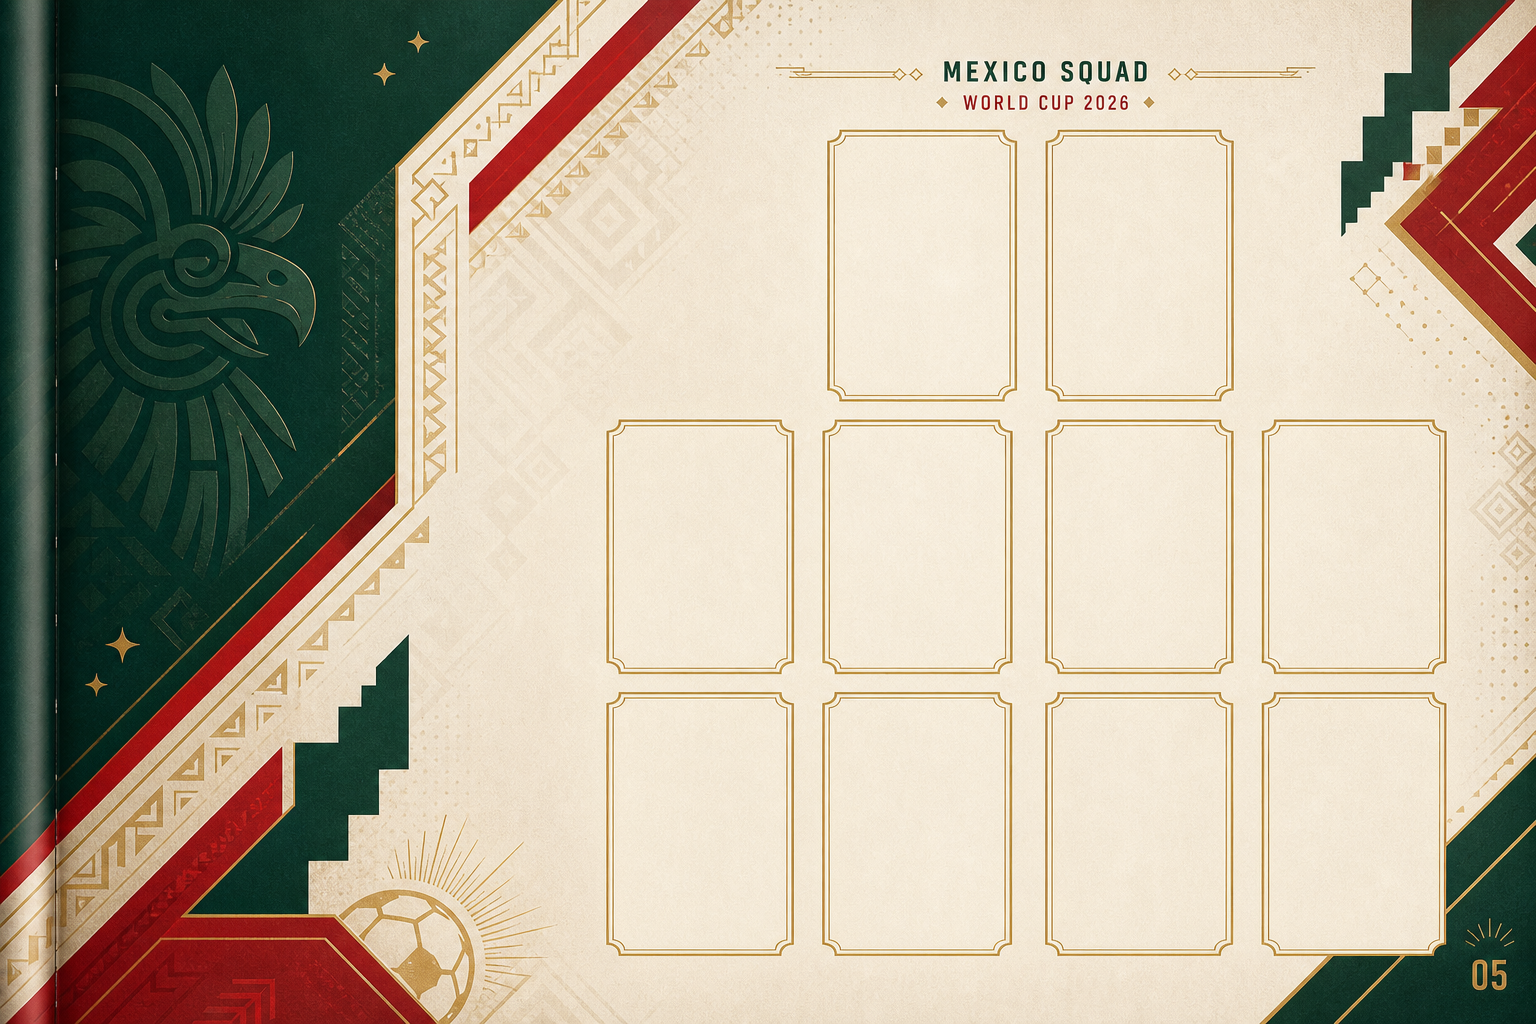
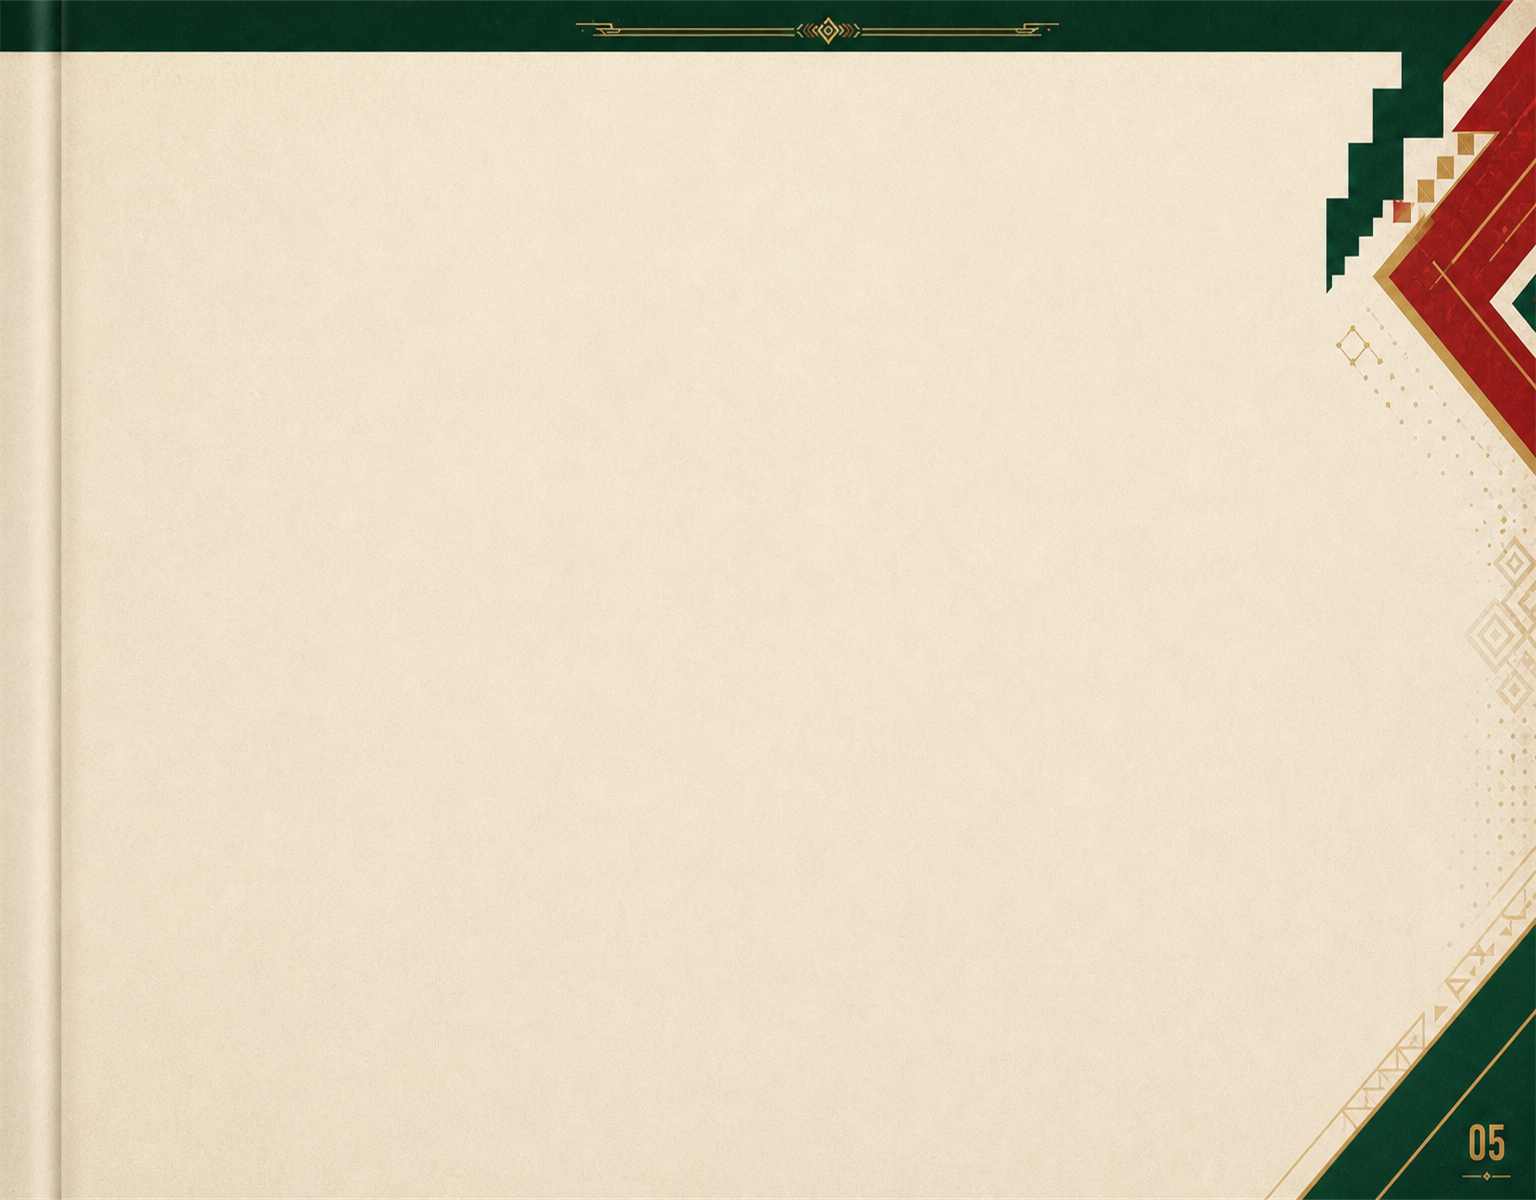
feat: перерисован альбом feat: перенесены карточки вниз

diff --git a/src/views/AlbumView.vue b/src/views/AlbumView.vue
@@ -1,5 +1,5 @@
 <script setup lang="ts">
-import { computed, ref, type ComputedRef, type Ref } from 'vue'
+import { computed, onBeforeUnmount, onMounted, ref, type ComputedRef, type Ref } from 'vue'
 import { useI18n } from 'vue-i18n'
 import AlbumBook from '@/components/Album/AlbumBook.vue'
 import AlbumDropConfirm from '@/components/DragDrop/AlbumDropConfirm.vue'
@@ -27,11 +27,13 @@ const { t } = useI18n()
 const album = useAlbumStore()
 const collection = useCollectionStore()
 const currentPage: Ref<number> = ref(0)
+const isDesktopSpread: Ref<boolean> = ref(false)
 const activeTargetId: Ref<string | undefined> = ref(undefined)
 const pendingDrop: Ref<StickerDropResult | undefined> = ref(undefined)
 const confirmationKind: Ref<'wrong' | 'far'> = ref('far')
 const isConfirmOpen: Ref<boolean> = ref(false)
 const lastGrade: Ref<StickerDropGrade | undefined> = ref(undefined)
+let desktopMediaQuery: MediaQueryList | undefined
 
 const albumImages: Record<string, string> = import.meta.glob(
   '../../assets/game/wc-26/mexico/album/*.png',
@@ -48,16 +50,44 @@ const pages: ComputedRef<AlbumPageView[]> = computed((): AlbumPageView[] =>
   })),
 )
 
-const visibleGeometry: ComputedRef<AlbumGeometryPage> = computed(
-  (): AlbumGeometryPage => pages.value[currentPage.value].geometry,
+const displayMode: ComputedRef<'spread' | 'page'> = computed(
+  (): 'spread' | 'page' => isDesktopSpread.value ? 'spread' : 'page',
 )
-const placedOnPage: ComputedRef<number> = computed((): number =>
-  visibleGeometry.value.slots.filter(({ id }): boolean => Boolean(getPlacedCard(id))).length,
+const pageStep: ComputedRef<number> = computed((): number => isDesktopSpread.value ? 2 : 1)
+const visiblePageIndexes: ComputedRef<number[]> = computed((): number[] =>
+  Array.from({ length: pageStep.value }, (_value: unknown, offset: number): number => currentPage.value + offset)
+    .filter((pageIndex: number): boolean => pageIndex < pages.value.length),
+)
+const visibleGeometries: ComputedRef<AlbumGeometryPage[]> = computed(
+  (): AlbumGeometryPage[] => visiblePageIndexes.value.map(
+    (pageIndex: number): AlbumGeometryPage => pages.value[pageIndex].geometry,
+  ),
+)
+const visiblePageLabel: ComputedRef<string> = computed((): string =>
+  visibleGeometries.value
+    .map(({ number }): string => String(number).padStart(2, '0'))
+    .join('–'),
+)
+const visibleSlotTotal: ComputedRef<number> = computed((): number =>
+  visibleGeometries.value.reduce((total: number, page: AlbumGeometryPage): number => total + page.slots.length, 0),
+)
+const placedOnVisiblePages: ComputedRef<number> = computed((): number =>
+  visibleGeometries.value.reduce(
+    (total: number, page: AlbumGeometryPage): number =>
+      total + page.slots.filter(({ id }): boolean => Boolean(getPlacedCard(id))).length,
+    0,
+  ),
 )
 
 const normalizeSlotId = (slotId: string): string => slotId.replace(/-slot$/, '')
 const getCard = (playerId: string): PlayerCard | undefined =>
   cards.find(({ id }): boolean => id === playerId)
+
+// Синхронизирует режим одной страницы и полного разворота с Tailwind breakpoint lg.
+const syncDesktopSpread = (event: MediaQueryList | MediaQueryListEvent): void => {
+  isDesktopSpread.value = event.matches
+  if (event.matches) currentPage.value = Math.floor(currentPage.value / 2) * 2
+}
 
 // Возвращает уже вклеенную карточку с поддержкой старых идентификаторов слотов.
 const getPlacedCard = (slotId: string): { card: PlayerCard; placement: StickerPlacement } | undefined => {
@@ -84,8 +114,18 @@ const focusCardTarget = (playerId: string): void => {
   const pageIndex: number = pages.value.findIndex(({ geometry }): boolean =>
     geometry.slots.some((slot): boolean => slot.playerId === playerId),
   )
-  if (pageIndex >= 0) currentPage.value = pageIndex
+  if (pageIndex >= 0) {
+    currentPage.value = isDesktopSpread.value ? Math.floor(pageIndex / 2) * 2 : pageIndex
+  }
   activeTargetId.value = playerId
+}
+
+const previousPage = (): void => {
+  currentPage.value = Math.max(0, currentPage.value - pageStep.value)
+}
+
+const nextPage = (): void => {
+  currentPage.value = Math.min(pages.value.length - 1, currentPage.value + pageStep.value)
 }
 
 const updatePreparationQuality = async (instanceId: string, quality: number): Promise<void> => {
@@ -141,6 +181,16 @@ const cancelDrop = (): void => {
   pendingDrop.value = undefined
   isConfirmOpen.value = false
 }
+
+onMounted((): void => {
+  desktopMediaQuery = window.matchMedia('(min-width: 1024px)')
+  syncDesktopSpread(desktopMediaQuery)
+  desktopMediaQuery.addEventListener('change', syncDesktopSpread)
+})
+
+onBeforeUnmount((): void => {
+  desktopMediaQuery?.removeEventListener('change', syncDesktopSpread)
+})
 </script>
 
 <template>
@@ -149,25 +199,25 @@ const cancelDrop = (): void => {
       <div>
         <p class="text-[10px] font-bold uppercase tracking-[0.18em] text-gold">{{ t('app.album') }}</p>
         <h1 class="text-lg font-black leading-tight">
-          {{ t('album.spreadTitle', { page: String(visibleGeometry.number).padStart(2, '0') }) }}
+          {{ t(isDesktopSpread ? 'album.spreadRangeTitle' : 'album.spreadTitle', { page: visiblePageLabel, pages: visiblePageLabel }) }}
         </h1>
       </div>
       <div class="text-right text-xs font-semibold text-paper/65">
-        <strong class="block text-base font-black text-paper">{{ placedOnPage }} / {{ visibleGeometry.slots.length }}</strong>
-        {{ t('album.spreadProgress', { placed: placedOnPage, total: visibleGeometry.slots.length }) }}
+        <strong class="block text-base font-black text-paper">{{ placedOnVisiblePages }} / {{ visibleSlotTotal }}</strong>
+        {{ t('album.spreadProgress', { placed: placedOnVisiblePages, total: visibleSlotTotal }) }}
       </div>
     </header>
 
-    <div class="flex min-h-0 flex-1 flex-col lg:grid lg:grid-cols-[minmax(0,1fr)_20rem]">
-      <div class="relative flex min-h-0 flex-1 items-center justify-center overflow-hidden p-2 lg:p-3">
+    <div class="flex min-h-0 flex-1 flex-col">
+      <div class="relative flex min-h-0 flex-1 items-center justify-center overflow-hidden">
         <AlbumBook
           class="h-full min-h-0 w-full"
           :pages="pages"
           :current-page="currentPage"
           :is-open="true"
-          display-mode="page"
-          @previous="currentPage = Math.max(0, currentPage - 1)"
-          @next="currentPage = Math.min(pages.length - 1, currentPage + 1)"
+          :display-mode="displayMode"
+          @previous="previousPage"
+          @next="nextPage"
         >
           <template #default="{ pageIndex }">
             <StickerSlot

diff --git a/src/components/Album/AlbumBook.vue b/src/components/Album/AlbumBook.vue
@@ -31,7 +31,7 @@ const isSpreadOnly: ComputedRef<boolean> = computed(
   (): boolean => props.displayMode === 'spread' && props.pages.length === 2,
 )
 type TurnDirection = 'forward' | 'backward'
-type TurnAction = keyof Emits
+type TurnAction = 'previous' | 'next'
 const isTurning: Ref<boolean> = ref(false)
 const turnDirection: Ref<TurnDirection> = ref('forward')
 const turningPage: Ref<AlbumPageData | undefined> = ref(undefined)
@@ -44,7 +44,8 @@ const turnTo = (targetPage: number, direction: TurnDirection, action: TurnAction
   turnDirection.value = direction
   isTurning.value = true
   turnTimer = setTimeout((): void => {
-    emit(action)
+    if (action === 'next') emit('next')
+    else emit('previous')
     isTurning.value = false
     turningPage.value = undefined
   }, 420)
@@ -61,7 +62,7 @@ onBeforeUnmount((): void => {
 </script>
 
 <template>
-  <div class="flex h-full min-h-0 w-full flex-col items-center gap-2">
+  <div class="flex h-full min-h-0 w-full flex-col items-center justify-center gap-2">
     <div
       class="album-book__viewport relative min-h-0 [perspective:1800px]"
       :class="displayMode === 'page' ? 'album-book__page-focus' : 'album-book__spread'"
@@ -135,14 +136,14 @@ onBeforeUnmount((): void => {
 
 <style scoped>
 .album-book__viewport {
-  flex: 1 1 auto;
   max-width: 100%;
 }
 
 .album-book__page-focus {
+  flex: 1 1 auto;
   height: 100%;
   width: auto;
-  aspect-ratio: 3 / 2;
+  aspect-ratio: 32 / 25;
 }
 
 .album-book__page-focus :deep(article) {
@@ -152,13 +153,16 @@ onBeforeUnmount((): void => {
 
 .album-book__spread {
   display: grid;
-  width: 100%;
+  flex: 0 1 auto;
+  width: min(100%, calc((100dvh - 21rem) * 2.56));
   grid-template-columns: repeat(2, minmax(0, 1fr));
-  aspect-ratio: 3 / 1;
+  aspect-ratio: 64 / 25;
+  box-shadow: 0 18px 50px rgb(var(--color-ink) / 0.24);
 }
 
 .album-book__spread :deep(article) {
   height: 100%;
+  box-shadow: none;
 }
 
 .album-page-turn--forward,

diff --git a/src/components/Album/StickerSlot.vue b/src/components/Album/StickerSlot.vue
@@ -30,7 +30,7 @@ const cardStyle = (): Record<string, string> => ({
 
 <template>
   <div
-    class="sticker-slot absolute rounded-[2px] border border-gold/80 bg-paper/95 shadow-inner"
+    class="sticker-slot absolute rounded-[2px] border border-gold/80 shadow-inner"
     :class="{ 'sticker-slot--highlighted': highlighted && !card }"
     :style="slotStyle()"
     :aria-label="t('album.slotTarget', { name: targetName })"
@@ -42,7 +42,7 @@ const cardStyle = (): Record<string, string> => ({
   >
     <!-- Пустой слот показывает номер и имя игрока вместо служебных координат. -->
     <div v-if="!card" class="pointer-events-none absolute inset-0 flex flex-col items-center justify-between p-[6%] text-center">
-      <span class="rounded bg-ink/90 px-1.5 py-0.5 text-[clamp(0.38rem,0.55vw,0.65rem)] font-black tracking-wide text-paper">
+      <span class="rounded bg-ink/90 px-1.5 py-0.5 text-[clamp(0.38rem,0.55vw,0.65rem)] font-black text-paper">
         {{ slotCode }}
       </span>
       <span class="w-full bg-paper/90 px-1 py-1 text-[clamp(0.42rem,0.68vw,0.76rem)] font-black leading-tight text-ink">
@@ -61,7 +61,16 @@ const cardStyle = (): Record<string, string> => ({
 
 <style scoped>
 .sticker-slot {
+  background: rgb(250 245 231 / 0.92);
   transition: box-shadow 180ms ease, transform 180ms ease, background-color 180ms ease;
+}
+
+.sticker-slot::before {
+  content: '';
+  position: absolute;
+  inset: 3%;
+  pointer-events: none;
+  border: 1px solid rgb(var(--color-gold) / 0.58);
 }
 
 .sticker-slot--highlighted {

diff --git a/src/components/Sticker/StickerTray.vue b/src/components/Sticker/StickerTray.vue
@@ -44,7 +44,7 @@ const closePreparation = (): void => {
 
 <template>
   <section
-    class="flex max-h-52 w-full shrink-0 flex-col border-t border-ink/15 bg-paper p-3 lg:h-full lg:max-h-none lg:w-80 lg:border-l lg:border-t-0"
+    class="flex h-52 max-h-52 w-full shrink-0 flex-col border-t border-ink/15 bg-paper p-3"
     :aria-label="t('stickerTray.title')"
   >
     <div class="mb-2 flex items-end justify-between gap-3">
@@ -57,7 +57,7 @@ const closePreparation = (): void => {
 
     <div
       v-if="cards.length"
-      class="sticker-tray flex min-h-0 gap-3 overflow-x-auto pb-3 lg:flex-1 lg:flex-col lg:items-center lg:overflow-x-hidden lg:overflow-y-auto lg:pb-0"
+      class="sticker-tray flex min-h-0 flex-1 gap-3 overflow-x-auto pb-3"
     >
       <StickerDraggable
         v-for="item in cards"
@@ -89,9 +89,4 @@ const closePreparation = (): void => {
   touch-action: pan-x;
 }
 
-@media (min-width: 1024px) {
-  .sticker-tray {
-    touch-action: pan-y;
-  }
-}
 </style>

diff --git a/src/components/DragDrop/StickerDraggable.vue b/src/components/DragDrop/StickerDraggable.vue
@@ -60,7 +60,7 @@ const finishDrag = (event: PointerEvent): void => {
 
 <template>
   <button
-    class="group flex h-32 w-60 shrink-0 touch-none cursor-pointer items-center gap-3 rounded border-2 border-ink/15 bg-white p-2 text-left shadow-sm transition hover:-translate-y-0.5 hover:border-coral lg:w-full"
+    class="group flex h-32 w-60 shrink-0 touch-none cursor-pointer items-center gap-3 rounded border-2 border-ink/15 bg-white p-2 text-left shadow-sm transition hover:-translate-y-0.5 hover:border-coral"
     :class="{ 'border-mint ring-2 ring-mint/50': prepared, 'opacity-50': isDragging }"
     type="button"
     :aria-label="card.fullName"

diff --git a/src/views/CollectionView.vue b/src/views/CollectionView.vue
@@ -59,7 +59,7 @@ const getCard = (playerId: string): PlayerCard | undefined =>
       </div>
     </div>
 
-    <Tabs v-model:value="activeTab" class="collection-tabs flex min-h-0 flex-1 flex-col" value="collection">
+    <Tabs v-model:value="activeTab" class="collection-tabs flex min-h-0 flex-1 flex-col">
       <TabList class="shrink-0">
         <Tab value="collection">
           <span class="flex items-center gap-2">

diff --git a/src/change-log/CHANGELOG.md b/src/change-log/CHANGELOG.md
@@ -1,10 +1,12 @@
 # Change Log
 
-## 0.7.6 — Читаемый альбом и хранилище повторов
+## 0.7.6 — Полный разворот и хранилище повторов
 
-- На desktop альбом переведён в режим одной увеличенной страницы, чтобы слоты и карточки оставались читаемыми на экранах 1080p.
+- На desktop страницы 04–05 снова показаны единым журнальным разворотом без прокрутки и перелистывания между `MEX-01`—`MEX-20`.
+- Обе страницы расширены по высоте без изменения визуального стиля, а 20 увеличенных слотов собраны в две сетки `2 + 4 + 4`.
+- Панель «Карточки для вклейки» возвращена вниз и снова прокручивается горизонтально, поэтому разворот занимает всю ширину экрана.
 - В пустых слотах теперь отображаются номер карточки и имя игрока; development-плашки с координатами удалены.
-- Выбор карточки в панели автоматически открывает нужную страницу и подсвечивает предназначенную для неё ячейку.
+- Выбор карточки в панели подсвечивает предназначенную для неё ячейку на текущем развороте.
 - Подготовка наклейки расширена до трёх этапов: снятие защитной основы, точное совмещение краёв и последовательное разглаживание четырёх углов.
 - Итоговое качество экземпляра учитывает плавность снятия основы, точность совмещения, ошибки разглаживания и положение карточки в альбоме.
 - Добавлен маршрут «Коллекция» с отдельными вкладками основной коллекции и хранилища повторов; повторы загружаются из Dexie, группируются по игрокам и показывают количество физических экземпляров.

diff --git a/assets/game/wc-26/mexico/album/README.md b/assets/game/wc-26/mexico/album/README.md
@@ -7,6 +7,8 @@
 - `page-04-stickers-left.png` — левая страница;
 - `page-05-stickers-right.png` — правая страница.
 
-Размер каждой страницы: `1536×1024 px`. PNG содержит только визуальный фон, декор и печатные рамки. Игроки, карточки и интерактивная геометрия в изображения не встроены.
+Размер каждой страницы: `1536×1200 px`. PNG содержит только визуальный фон и компактный декор у внешних краёв. Игроки, карточки, рамки и интерактивная геометрия в изображения не встроены.
+
+На desktop страницы 04–05 образуют единый разворот с сеткой `2 + 4 + 4` на каждой половине. Внутренние края оставлены свободными и соединяются общим журнальным сгибом.
 
 Источником координат является `src/data/wc-26/mexico/album.json`. Компоненты Vue накладывают слоты и карточки поверх PNG независимо от изображения.